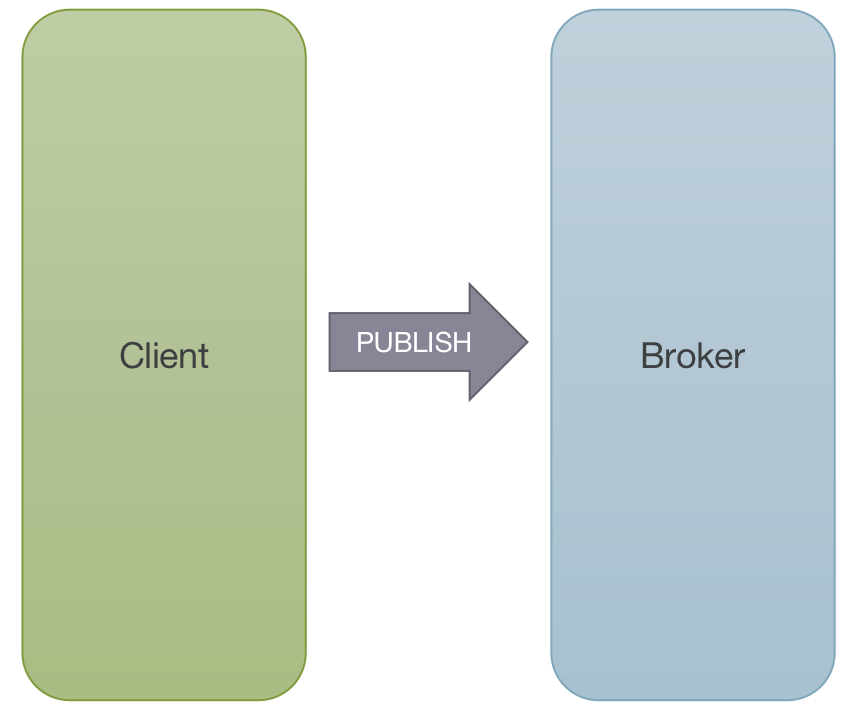
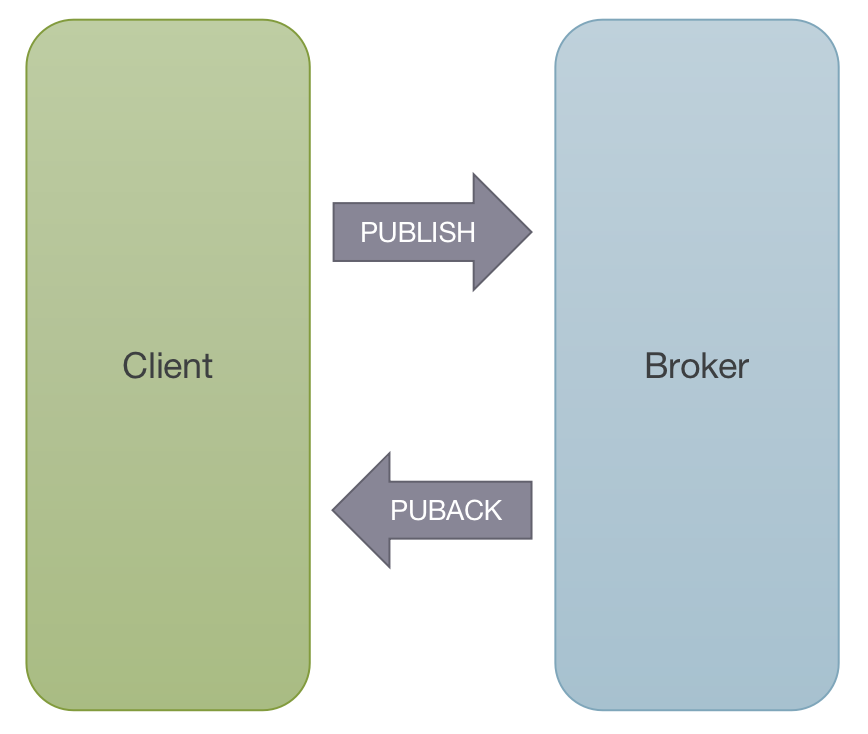
update device publish md

diff --git a/doc/分析/数据传输.md b/doc/分析/数据传输.md
@@ -2,10 +2,119 @@
 - release-3.2分支源码
 
 #### 描述
-以MQTT协议接入为例，分析设备如何传输数据到Thingsboard。在一般情况下（服务质量等级Qos为0，不保证消息一定到达），使用Mqtt客户端向云端发送PUBLISH消息即可完成传输。
+以MQTT协议接入为例，分析设备如何传输数据到Thingsboard。在一般情况下（服务质量等级Qos为0，不保证消息一定到达），使用Mqtt客户端向云端发送PUBLISH消息即可完成传输，不用处理PUBACK
+
 ![Mqtt传输](../../image/Mqtt传输.png)
 
 #### 分析
+
+与设备连接类似，入口类：`MqttTransportService`，核心处理类为`MqttTransportHandler`
+
+#### 数据传输
+##### 普通设备
+在MqttTransportHandler中进行Mqtt消息处理，以一个的普通设备上传数据`{"temp":31.23}`为例，核心处理流程如下：
+```
+//MqttTransportHandler 132
+processMqttMsg(ctx, (MqttMessage) msg);
+
+//MqttTransportHandler 158
+processRegularSessionMsg(ctx, msg);
+
+//MqttTransportHandler 207
+processPublish(ctx, (MqttPublishMessage) msg);
+
+//MqttTransportHandler 245
+//调用processDevicePublish方法处理设备消息 
+processDevicePublish(ctx, mqttMsg, topicName, msgId);
+
+//MqttTransportHandler 288
+//转换为遥测消息，调用transportService进行处理
+TransportProtos.PostTelemetryMsg postTelemetryMsg = payloadAdaptor.convertToPostTelemetry(deviceSessionCtx, mqttMsg);
+transportService.process(deviceSessionCtx.getSessionInfo(), postTelemetryMsg, getPubAckCallback(ctx, msgId, postTelemetryMsg));
+
+//DefaultTransportService 382
+//调用sendToRuleEngine方法处理消息
+sendToRuleEngine(tenantId, deviceId, sessionInfo, json, metaData, SessionMsgType.POST_TELEMETRY_REQUEST, packCallback);
+
+//DefaultTransportService 797
+//转换消息类型为TbMsg，调用sendToRuleEngine方法处理消息
+TbMsg tbMsg = TbMsg.newMsg(queueName, sessionMsgType.name(), deviceId, metaData, gson.toJson(json), ruleChainId, null);
+sendToRuleEngine(tenantId, tbMsg, callback);
+
+//DefaultTransportService 776
+//调用ruleEngineMsgProducer（类型为TbQueueProducer）发送消息
+//TbQueueProducer有多种实现，常见的是InMemoryTbQueueProducer和TbKafkaProducerTemplate
+ruleEngineMsgProducer.send(tpi, new TbProtoQueueMsg<>(tbMsg.getId(), msg), wrappedCallback);
+
+//MqttTransportHandler 324
+//调用ack方法准备ack消息
+ack(ctx, msgId);
+
+//MqttTransportHandler 315
+//channel上下文中写入并刷新PUBACK消息。
+ctx.writeAndFlush(createMqttPubAckMsg(msgId));
+
+//DefaultTbRuleEngineConsumerService 165
+List<TbProtoQueueMsg<ToRuleEngineMsg>> msgs = consumer.poll(pollDuration);
+
+//DefaultTbRuleEngineConsumerService 185
+forwardToRuleEngineActor(configuration.getName(), tenantId, toRuleEngineMsg, callback);
+
+//DefaultTbRuleEngineConsumerService 300
+msg = new QueueToRuleEngineMsg(tenantId, tbMsg, relationTypes, toRuleEngineMsg.getFailureMessage());
+actorContext.tell(msg);
+```
+示意图如下：
+
 //todo
+
+##### 网关
+以一个的网关上传设备数据`{{"设备1":[{"temp":18}]}`为例，核心处理流程如下：
+```
+//MqttTransportHandler 132 同普通设备
+
+//MqttTransportHandler 158 同普通设备
+
+//MqttTransportHandler 207 同普通设备
+
+//MqttTransportHandler 241
+handleGatewayPublishMsg(ctx, topicName, msgId, mqttMsg);
+
+//MqttTransportHandler 253
+gatewaySessionHandler.onDeviceTelemetry(mqttMsg);
+
+//GatewaySessionHandler 122
+onDeviceTelemetryJson(msgId, payload);
+
+//GatewaySessionHandler 346
+TransportProtos.PostTelemetryMsg postTelemetryMsg = JsonConverter.convertToTelemetryProto(deviceEntry.getValue().getAsJsonArray());
+processPostTelemetryMsg(deviceCtx, postTelemetryMsg, deviceName, msgId);
+
+//GatewaySessionHandler 400
+transportService.process(deviceCtx.getSessionInfo(), postTelemetryMsg, getPubAckCallback(channel, deviceName, msgId, postTelemetryMsg));
+
+//DefaultTransportService 382 同普通设备
+
+//DefaultTransportService 797 同普通设备
+
+//DefaultTransportService 776 同普通设备
+
+//GatewaySessionHandler 726
+ctx.writeAndFlush(MqttTransportHandler.createMqttPubAckMsg(msgId))
+
+//DefaultTbRuleEngineConsumerService 165 同普通设备
+
+//DefaultTbRuleEngineConsumerService 185 同普通设备
+
+//DefaultTbRuleEngineConsumerService 300 同普通设备
+```
+示意图如下：
+
+//todo
+
+
+#### 注意
+
+- TOPIC信息：请求TOPIC：`tb_rule_engine`，可配置`TB_QUEUE_RULE_ENGINE_TOPIC`进行修改。
 #### TIPS
 //todo

diff --git a/doc/分析/设备连接.md b/doc/分析/设备连接.md
@@ -8,7 +8,7 @@
 ![Mqtt连接](../../image/Mqtt连接.png)
 
 #### 分析
-入口：`MqttTransportService`
+入口：`MqttTransportService`，核心处理类为`MqttTransportHandler`
 
 #### 初始化
 
@@ -195,7 +195,7 @@ ctx.writeAndFlush(createMqttConnAckMsg(CONNECTION_ACCEPTED, connectMessage));
 
 #### 注意
 
-- TOPIC，请求TOPIC： `queue.transport_api.requests_topic`，返回结果TOPIC：`queue.transport_api.responses_topic`+`service.id`
+- TOPIC信息：请求TOPIC： `tb_transport.api.requests`,可配置`TB_QUEUE_TRANSPORT_API_REQUEST_TOPIC`进行修改，返回结果TOPIC：`tb_transport.api.response`+`service.id`，可配置`TB_QUEUE_TRANSPORT_API_RESPONSE_TOPIC`进行修改。
 - 消息队列key计算：使用DeviceId作为key，可参考`DefaultTransportService` 733行，以Kafka为例，消费者可根据hash(key)进行消费，确保单个设备消息被同一消费者消费，
 
 
